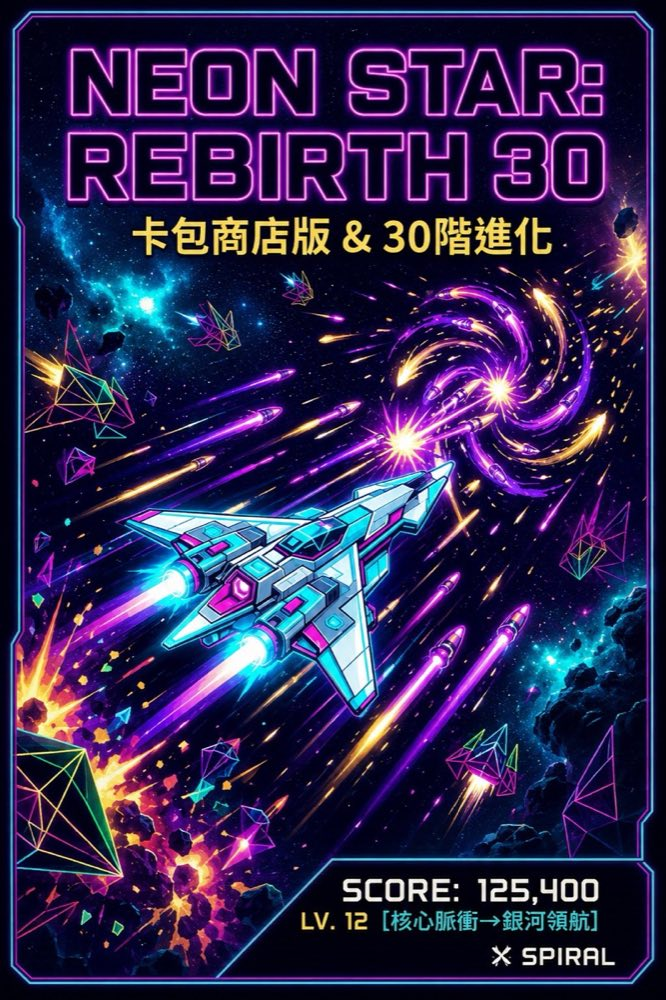
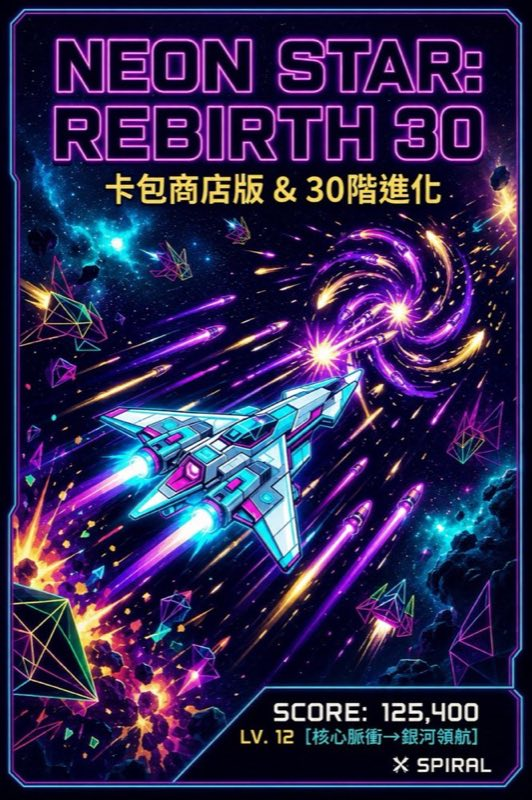
perf: 大幅壓縮網頁讀取速度 + K01 移到最後
🚀 圖片壓縮：20MB → 3.6MB（壓縮 82%）
- 8 張 PNG 封面（1.4~2.5MB/張）轉成 JPG q60 + max 800px
- 所有 JPG 重壓一輪到 q55 + max 800px
- works.js 路徑同步 .png → .jpg

🎓 K01 教師示範作品移到陣列最後（works.js）
- 觀眾從 G01 開始看，K01 壓軸
- 主選單 / browse / detail 連動

開展前的最後優化，網頁載入應該明顯變快。

diff --git a/works.js b/works.js
@@ -11,7 +11,7 @@ const PROJECTS = [
   {
     id: "G01",
     title: "歡樂時光屋",
-    cover: "./assets/games/happy-house-3d/cover-4x3.png",
+    cover: "./assets/games/happy-house-3d/cover-4x3.jpg",
     genre: ["3D", "劇情探索"],
     tags: ["3D", "馬戲團", "劇情", "氛圍"],
     platform: "Web",
@@ -70,7 +70,7 @@ const PROJECTS = [
   {
     id: "G05",
     title: "第三次世界大戰",
-    cover: "./assets/games/gunfight/cover-4x3.png",
+    cover: "./assets/games/gunfight/cover-4x3.jpg",
     genre: ["射擊", "3D"],
     tags: ["FPS", "HUD", "戰場", "WASD"],
     platform: "Web",
@@ -84,7 +84,7 @@ const PROJECTS = [
   {
     id: "G06",
     title: "八掌溪環保爭霸戰",
-    cover: "./assets/games/bazhang-eco-battle/cover-4x3.png",
+    cover: "./assets/games/bazhang-eco-battle/cover-4x3.jpg",
     boxCover: "./assets/games/bazhang-eco-battle/cover-2x3.jpg",
     genre: ["環境教育", "策略"],
     tags: ["八掌溪", "永續", "知識", "對戰"],
@@ -142,7 +142,7 @@ const PROJECTS = [
   {
     id: "G10",
     title: "微型死域",
-    cover: "./assets/games/micro-dead-zone/cover-4x3.png",
+    cover: "./assets/games/micro-dead-zone/cover-4x3.jpg",
     genre: ["射擊", "生存"],
     tags: ["工廠", "獵場", "越肩視角", "Three.js", "滑鼠鎖定"],
     platform: "Web",
@@ -156,7 +156,7 @@ const PROJECTS = [
   {
     id: "G11",
     title: "霓虹星際突擊",
-    cover: "./assets/games/neon-star-assault/cover-4x3.png",
+    cover: "./assets/games/neon-star-assault/cover-4x3.jpg",
     genre: ["射擊", "動作"],
     tags: ["霓虹", "宇宙", "自動射擊", "BOSS戰"],
     platform: "Web",
@@ -166,21 +166,6 @@ const PROJECTS = [
     theme: "magenta",
     featured: false,
     createdAt: "2026-06-05",
-  },
-  {
-    id: "K01",
-    title: "瘋狂大賽車",
-    cover: "./assets/games/kirin-racing/cover-16x9.jpg",
-    boxCover: "./assets/games/kirin-racing/cover-2x3.jpg",
-    genre: ["3D 賽車", "體感控制"],
-    tags: ["橢圓賽道", "Pico W", "手把", "Three.js", "pico-car"],
-    platform: "Web",
-    shortPitch: "油門踩下去，彎道才是真正的考驗。",
-    description: "駕駛你的方塊賽車，在橢圓賽道、障礙路線與自由探索場景中衝刺、甩尾、收集金幣，挑戰最速圈與排行榜。你能成為賽道上的第一名嗎？",
-    playUrl: "./games/kirin-racing/index.html",
-    theme: "ember",
-    featured: true,
-    createdAt: "2026-06-06",
   },
   {
     id: "G12",
@@ -240,6 +225,21 @@ const PROJECTS = [
     theme: "magenta",
     featured: false,
     createdAt: "2026-06-10",
+  },
+  {
+    id: "K01",
+    title: "瘋狂大賽車",
+    cover: "./assets/games/kirin-racing/cover-16x9.jpg",
+    boxCover: "./assets/games/kirin-racing/cover-2x3.jpg",
+    genre: ["3D 賽車", "體感控制"],
+    tags: ["橢圓賽道", "Pico W", "手把", "Three.js", "pico-car"],
+    platform: "Web",
+    shortPitch: "油門踩下去，彎道才是真正的考驗。",
+    description: "駕駛你的方塊賽車，在橢圓賽道、障礙路線與自由探索場景中衝刺、甩尾、收集金幣，挑戰最速圈與排行榜。你能成為賽道上的第一名嗎？",
+    playUrl: "./games/kirin-racing/index.html",
+    theme: "ember",
+    featured: true,
+    createdAt: "2026-06-06",
   },
 ];
 

diff --git a/app.js b/app.js
@@ -2,8 +2,8 @@ const app = document.querySelector("#app");
 const VOTE_STORE_KEY = "daye-ai-exhibition-votes";
 const VOTED_STORE_KEY = "daye-ai-exhibition-voted-projects";
 const ADMIN_OVERRIDE_KEY = "daye-ai-exhibition-project-overrides";
-const ADMIN_SESSION_KEY = "daye-ai-exhibition-admin-session";
-const ADMIN_PASSCODE = "daye2026";
+const ADMIN_SESSION_KEY = "daye-ai-exhibition-admin-session-v2";
[1 lines of base64/hex data omitted]
 const SCORE_FIELDS = [
   ["creativity", "AI 結合創意"],
   ["art", "畫面精緻度"],
@@ -16,6 +16,17 @@ const SCORE_FIELDS = [
 const VOTE_LOCK_KEY = "daye-vote-lock-v1";
 const VOTE_TAG_PRESET = ["畫面好看", "玩法有趣", "創意特別", "想推薦朋友", "期待後續更新"];
 let voteModalProject = null;
+
+async function sha256Hex(value) {
+  const bytes = new TextEncoder().encode(String(value || ""));
+  const digest = await globalThis.crypto.subtle.digest("SHA-256", bytes);
+  return [...new Uint8Array(digest)].map((byte) => byte.toString(16).padStart(2, "0")).join("");
+}
+
+async function isValidAdminPasscode(passcode) {
+  if (!globalThis.crypto?.subtle) return false;
+  return (await sha256Hex(passcode)) === ADMIN_PASSCODE_HASH;
+}
 
 function getVoteApiUrl() {
   const cfg = (typeof window !== "undefined" && window.SITE_CONFIG && window.SITE_CONFIG.voting) || {};
@@ -972,16 +983,25 @@ function renderAdmin() {
         </form>
       </section>
     `;
-    document.querySelector("#adminLoginForm").addEventListener("submit", (event) => {
+    document.querySelector("#adminLoginForm").addEventListener("submit", async (event) => {
       event.preventDefault();
+      const form = event.currentTarget;
+      const message = document.querySelector("#adminLoginMessage");
+      const submitButton = form.querySelector("button[type='submit']");
       const passcode = new FormData(event.currentTarget).get("passcode");
-      if (passcode !== ADMIN_PASSCODE) {
-        document.querySelector("#adminLoginMessage").textContent = "管理碼不正確。";
-        return;
+      submitButton.disabled = true;
+      message.textContent = "";
+      try {
+        if (!(await isValidAdminPasscode(passcode))) {
+          message.textContent = "管理碼不正確。";
+          return;
+        }
+        state.isAdmin = true;
+        sessionStorage.setItem(ADMIN_SESSION_KEY, "active");
+        renderAdmin();
+      } finally {
+        submitButton.disabled = false;
       }
-      state.isAdmin = true;
-      sessionStorage.setItem(ADMIN_SESSION_KEY, "active");
-      renderAdmin();
     });
     return;
   }
